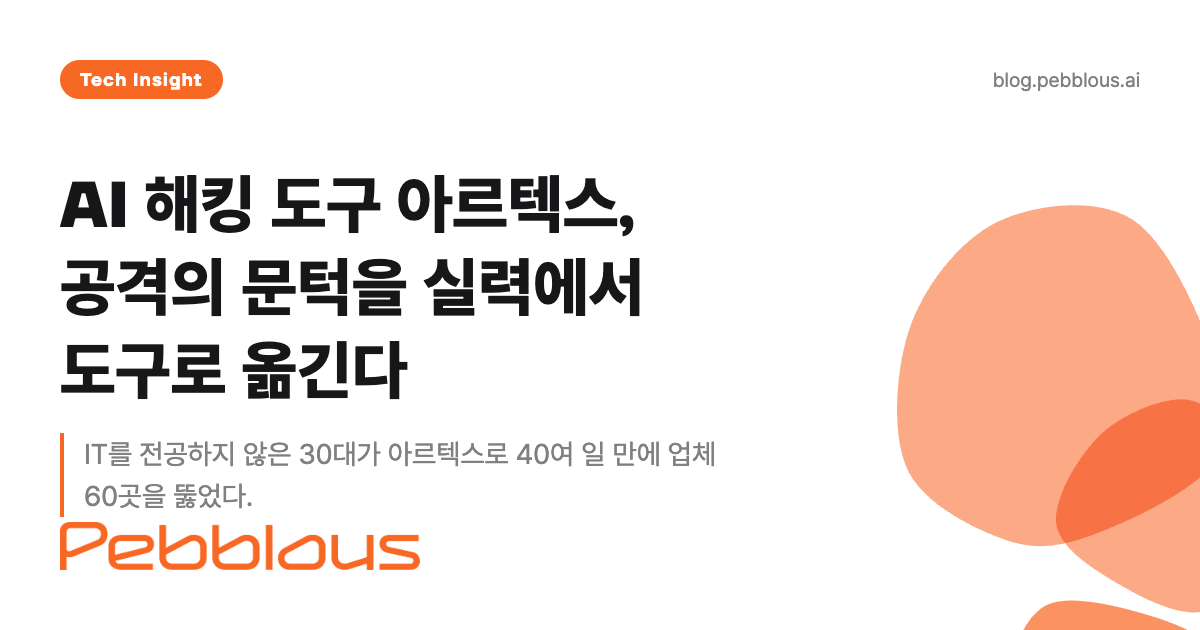
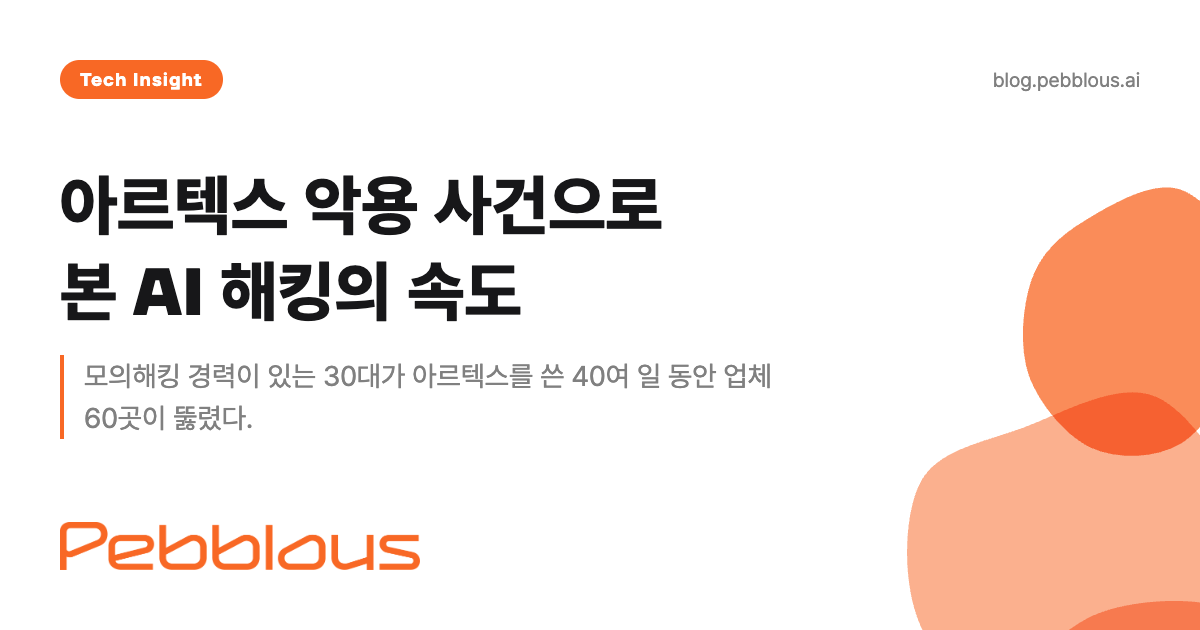
revise(blog): blog/artex-agentic-pentest-access-threshold 수정 — 1. 한국어판만 윤문합니다. 영문판, 기존 URL, 출처와 인용은 유지합니다. 사실 확인이 안 된 내

Changed region(s): [[0.74, 0.3016, 1.0, 1.0], [0.0308, 0.2714, 0.555, 0.5127], [0.0308, 0.5429, 0.6475, 0.8143]]

diff --git a/blog/artex-agentic-pentest-access-threshold/ko/index.html b/blog/artex-agentic-pentest-access-threshold/ko/index.html
@@ -4,14 +4,14 @@
 <head>
     <meta charset="UTF-8">
     <meta name="viewport" content="width=device-width, initial-scale=1.0">
-    <title>아르텍스(ARTEX)란? — AI 해킹 도구 구조와 국내 90곳 침해 사건 정리 | 페블러스</title>
+    <title>아르텍스(ARTEX)란? AI 해킹 도구와 국내 90여 곳 피해 사건 | 페블러스</title>
     <meta name="author" content="(주)페블러스 데이터 커뮤니케이션팀">
     <meta name="language" content="Korean">
     <meta http-equiv="content-language" content="ko">
     <meta name="copyright" content="© 2026 Pebblous. All rights reserved.">
     <meta name="robots" content="index, follow">
 
-    <meta name="description" content="서울경찰청이 생성형 AI 침투 도구 아르텍스를 쓴 해킹 일당 7명을 검거했다. IT를 전공하지 않은 총책이 이 도구로 40여 일 만에 업체 60곳을 뚫었고, 같은 도구가 중국 국가 연계 조직의 공격에서도 발견됐다. 피해 90여 곳 가운데 신고한 곳은 15곳이다.">
+    <meta name="description" content="서울경찰청이 생성형 AI 침투 도구 아르텍스를 쓴 해킹 일당 7명을 검거했다. 모의해킹 경력이 있는 총책이 이 도구를 쓴 40여 일 동안 업체 60곳이 뚫렸고, 그 앞 약 1년 동안 뚫린 곳은 30여 곳이다. 피해 90여 곳 가운데 신고한 곳은 15곳이다.">
     <meta name="keywords" content="아르텍스, ARTEX, AI 해킹, 자율 침투 테스트, 에이전틱 AI, 오픈소스 해킹 도구, 사이버보안, 데이터 유출, 침해사고 신고, AI-Ready Data">
 
     <!-- 핵심 검색어 -->
@@ -25,8 +25,8 @@
 
     <!-- Open Graph -->
     <meta property="og:type" content="article">
-    <meta property="og:title" content="AI 해킹 도구 아르텍스, 공격의 문턱을 실력에서 도구로 옮긴다">
-    <meta property="og:description" content="IT를 전공하지 않은 30대가 아르텍스로 40여 일 만에 업체 60곳을 뚫었다. 같은 도구가 중국 국가 연계 조직의 공격에서도 나왔고, 피해 90여 곳 가운데 신고는 15곳뿐이다.">
+    <meta property="og:title" content="아르텍스 악용 사건으로 본 AI 해킹의 속도">
+    <meta property="og:description" content="모의해킹 경력이 있는 30대가 아르텍스를 쓴 40여 일 동안 업체 60곳이 뚫렸다. 그 앞 약 1년 동안 뚫린 곳은 30여 곳이다. 같은 도구가 중국 국가 연계 조직의 공격에서도 나왔고, 피해 90여 곳 가운데 신고는 15곳이다.">
     <meta property="og:url" content="https://blog.pebblous.ai/blog/artex-agentic-pentest-access-threshold/ko/">
     <meta property="og:image" content="https://blog.pebblous.ai/blog/artex-agentic-pentest-access-threshold/ko/image/index.png">
     <meta property="og:image:width" content="1200">
@@ -38,7 +38,7 @@
 
     <!-- Twitter Card -->
     <meta name="twitter:card" content="summary_large_image">
-    <meta name="twitter:title" content="AI 해킹 도구 아르텍스, 공격의 문턱을 실력에서 도구로 옮긴다">
+    <meta name="twitter:title" content="아르텍스 악용 사건으로 본 AI 해킹의 속도">
     <meta name="twitter:description" content="숭실대 재현 실험에서 아르텍스는 목표 한 줄만 받고 6분 만에 취약점을 찾아 가상 고객 기록 100건을 열었다. 쓰인 모델은 개인 워크스테이션에서 돌아가는 공개 모델이었다.">
     <meta name="twitter:image" content="https://blog.pebblous.ai/blog/artex-agentic-pentest-access-threshold/ko/image/index.png">
     <meta name="twitter:image:alt" content="같은 오픈소스 도구 아르텍스가 국가 연계 조직·금전 목적 소규모 팀·독학한 개인 세 갈래의 공격에 함께 쓰인 구도를 그린 도식">
@@ -67,7 +67,7 @@
     <link rel="stylesheet" href="https://cdn.jsdelivr.net/gh/orioncactus/pretendard@v1.3.9/dist/web/variable/pretendardvariable.min.css">
 
     <!-- Google Scholar -->
-    <meta name="citation_title" content="AI 해킹 도구 아르텍스, 공격의 문턱을 실력에서 도구로 옮긴다">
+    <meta name="citation_title" content="아르텍스 악용 사건으로 본 AI 해킹의 속도">
     <meta name="citation_author" content="Pebblous Data Communication Team">
     <meta name="citation_publication_date" content="2026/10/28">
     <meta name="citation_online_date" content="2026/10/28">
@@ -88,9 +88,9 @@
             <nav class="hidden lg:block lg:w-[240px] lg:shrink-0 sticky top-20 self-start">
                 <h3 class="font-bold themeable-heading mb-4 text-lg">목차</h3>
                 <ul id="toc-links" class="space-y-3 text-sm border-l-2 themeable-toc-border">
-                    <li><a href="#executive-summary" class="block pl-4 themeable-toc-link transition-colors duration-200">Executive Summary</a></li>
+                    <li><a href="#executive-summary" class="block pl-4 themeable-toc-link transition-colors duration-200">핵심 요약</a></li>
                     <li><a href="#the-case" class="block pl-4 themeable-toc-link transition-colors duration-200">1. 820만 건을 털고 받아 낸 돈은 30만원이다</a></li>
-                    <li><a href="#what-changed" class="block pl-4 themeable-toc-link transition-colors duration-200">2. 달라진 것은 도구뿐이다</a></li>
+                    <li><a href="#what-changed" class="block pl-4 themeable-toc-link transition-colors duration-200">2. 아르텍스 도입 전후로 피해 발생 속도가 달라졌다</a></li>
                     <li><a href="#same-tool" class="block pl-4 themeable-toc-link transition-colors duration-200">3. 같은 도구가 국가 연계 조직의 손에도 있다</a></li>
                     <li><a href="#after-closure" class="block pl-4 themeable-toc-link transition-colors duration-200">4. 저자가 손을 떼도 도구는 남는다</a></li>
                     <li><a href="#unreported" class="block pl-4 themeable-toc-link transition-colors duration-200">5. 90여 곳 가운데 15곳만 신고했다</a></li>
@@ -110,13 +110,13 @@
 
                 <!-- Executive Summary -->
                 <section id="executive-summary" class="mb-16 fade-in-card">
-                    <h2 class="text-3xl font-bold themeable-heading mb-8">Executive Summary</h2>
+                    <h2 class="text-3xl font-bold themeable-heading mb-8">핵심 요약</h2>
                     <div class="key-insight">
                         <p class="themeable-text leading-relaxed">
-                            서울경찰청이 생성형 AI 침투 도구를 쓴 해킹·공갈 일당 일곱 명을 검거했다는 소식이다. 이들이 쓴 도구는 아르텍스(ARTEX)로, 목표 주소와 목적만 알려 주면 정찰부터 취약점 확인과 자료 유출까지 사람이 거의 손대지 않고 스스로 해내도록 만들어진 공개 프로그램이다. 경찰은 생성형 AI를 악용한 대규모 해킹으로 국내에서 피의자를 검거한 첫 사례라고 밝혔다. 이 글은 그 도구가 무엇이고, 같은 도구가 어떤 사람들의 손에 함께 들려 있는지를 본다.
+                            서울경찰청 발표에 따르면 2025년 9월부터 올해 10월 초까지 국내 업체 90여 곳에서 개인정보와 내부 자료 약 820만 건이 빠져나갔다. 같은 발표에서 시기는 둘로 갈린다. 앞선 약 1년 동안 뚫린 곳이 30여 곳이고, 총책이 생성형 AI 침투 도구 아르텍스(ARTEX)를 본격적으로 쓰기 시작한 8월 말 이후 40여 일 동안 뚫린 곳이 60곳이다. 이 도구가 쓰인 것으로 전해진 구간은 뒤쪽이다. 90여 곳 전부가 이 도구로 공격받았다는 뜻은 아니다. 경찰은 10월 26일 일당 일곱 명을 검거했고, 생성형 AI를 악용한 대규모 해킹으로 국내에서 피의자를 검거한 첫 사례라고 밝혔다.
                         </p>
                         <p class="themeable-text leading-relaxed mt-4">
-                            눈에 띄는 것은 총책의 이력이다. IT를 전공하지 않았고 블로그와 영상으로 해킹을 독학했다. 그런데도 8월 말에 아르텍스를 손에 쥔 뒤로는 40여 일 만에 업체 60곳이 더 뚫렸다. 그 앞 열두 달 동안 뚫은 곳은 30여 곳이다. 같은 사람, 같은 목적, 표적을 고르는 방식도 같은데 속도만 열 배 넘게 뛰었다. 그리고 바로 그 도구가 중국 국가 연계 조직의 공격에서도, 국내 금융사 일곱 곳을 노린 공격 서버에서도 함께 발견됐다.
+                            아르텍스는 목표 주소와 목적만 알려 주면 정찰부터 취약점 확인과 자료 유출까지 사람이 거의 손대지 않고 스스로 해내도록 만들어진 공개 프로그램이다. 총책인 32세 남성은 IT를 전공하지 않았고 블로그와 영상으로 해킹을 독학했지만, 2019년부터 2022년까지 보안업체에서 모의해킹 업무를 맡은 경력이 있다. 침투 테스트를 실무로 겪어 본 사람이었다는 뜻이다. 그리고 같은 도구가 중국 국가 연계 조직의 공격에서도, 국내 금융사 일곱 곳을 노린 공격 서버에서도 함께 발견됐다. 이 글은 그 도구가 무엇이고, 같은 도구가 어떤 사람들의 손에 함께 들려 있는지를 본다.
                         </p>
                         <p class="themeable-text leading-relaxed mt-4">
                             5절까지는 경찰 발표와 보안업체 분석, 그리고 공개된 수치에서 바로 계산되는 값을 따라간다. 이 사건을 데이터를 다루는 쪽의 질문으로 옮긴 6절은 이 글의 해석이다.
@@ -124,7 +124,7 @@
                     </div>
 
                     <h3 class="text-xl font-semibold themeable-heading mt-8 mb-3">주요 수치</h3>
-                    <p class="themeable-text-secondary text-sm mb-3">출처: <a href="https://zdnet.co.kr/view/?no=20261027074733" target="_blank" rel="noopener" class="text-orange-500 hover:text-orange-400 underline">ZDNet 코리아</a>·<a href="https://www.etnews.com/20261026000369" target="_blank" rel="noopener" class="text-orange-500 hover:text-orange-400 underline">전자신문</a>(서울경찰청 발표), <a href="https://zdnet.co.kr/view/?no=20261006095704" target="_blank" rel="noopener" class="text-orange-500 hover:text-orange-400 underline">숭실대 AI안전성연구센터 재현 실험</a>, <a href="https://www.csoonline.com/article/4239028/china-linked-hackers-used-agentic-ai-in-attack-on-2250-microsoft-365-tenants.html" target="_blank" rel="noopener" class="text-orange-500 hover:text-orange-400 underline">CSOonline</a>(마이크로소프트 위협 인텔리전스 분석). 기간당 속도 환산은 공개된 수치에서 페블러스가 계산했다.</p>
+                    <p class="themeable-text-secondary text-sm mb-3">출처: <a href="https://zdnet.co.kr/view/?no=20261027074733" target="_blank" rel="noopener" class="text-orange-500 hover:text-orange-400 underline">ZDNet 코리아</a>·<a href="https://www.etnews.com/20261026000369" target="_blank" rel="noopener" class="text-orange-500 hover:text-orange-400 underline">전자신문</a>(서울경찰청 발표), <a href="https://zdnet.co.kr/view/?no=20261006095704" target="_blank" rel="noopener" class="text-orange-500 hover:text-orange-400 underline">숭실대 AI안전성연구센터 재현 실험</a>, <a href="https://www.csoonline.com/article/4239028/china-linked-hackers-used-agentic-ai-in-attack-on-2250-microsoft-365-tenants.html" target="_blank" rel="noopener" class="text-orange-500 hover:text-orange-400 underline">CSOonline</a>(마이크로소프트 위협 인텔리전스 분석). 기간당 속도 환산은 공개된 수치에서 페블러스가 계산했다. 발표 수치가 어림수여서 환산값도 대략치다.</p>
                     <div class="grid grid-cols-2 sm:grid-cols-2 lg:grid-cols-4 gap-4">
                         <div class="themeable-card rounded-xl p-4 text-center">
                             <p class="text-2xl font-bold" style="color: #F86825;">6분</p>
@@ -134,7 +134,7 @@
                         <div class="themeable-card rounded-xl p-4 text-center">
                             <p class="text-2xl font-bold" style="color: #F86825;">60곳</p>
                             <p class="text-sm themeable-text-secondary mt-1">아르텍스를 쓴 40여 일 동안 뚫린 업체</p>
-                            <p class="text-xs themeable-muted mt-1">그 앞 열두 달 동안 뚫린 곳은 30여 곳이다. 피해 업체의 3분의 2가 전체 기간의 10분의 1에 몰렸다</p>
+                            <p class="text-xs themeable-muted mt-1">앞선 약 1년 동안 뚫린 곳은 30여 곳이다. 피해 업체의 3분의 2가 전체 기간의 10분의 1에 몰린 셈이다</p>
                         </div>
                         <div class="themeable-card rounded-xl p-4 text-center">
                             <p class="text-2xl font-bold" style="color: #F86825;">15곳</p>
@@ -240,7 +240,7 @@
                     </p>
 
                     <p class="themeable-text leading-relaxed mb-6">
-                        총책의 이력이 이 사건을 보통의 해킹 사건과 가른다. IT를 전공하지 않았고 블로그와 영상을 보며 해킹을 익혔다. 2019년부터 2022년까지 보안업체에서 모의해킹 업무를 맡은 적은 있지만, 혼자서 전국 90여 곳의 전산망을 여는 수준의 숙련자는 아니었다. 경찰이 발표에서 짚은 문장이 그 지점이다. 전문 해커 조직이 아니어도 AI의 도움을 받으면 대규모 해킹이 가능해졌다는 것이다.
+                        총책의 이력은 두 갈래로 적혀 있다. IT를 전공하지 않았고 블로그와 영상을 보며 해킹을 익혔다는 쪽이 한 갈래다. 다른 한 갈래는 2019년부터 2022년까지 보안업체에서 모의해킹 업무를 맡았다는 경력이다. 침투 테스트를 실무로 다뤄 본 사람이 공개된 자동화 도구를 손에 쥔 경우에 가깝다. 경찰이 발표에서 짚은 문장은 그 옆자리에 있다. 전문 해커 조직이 아니어도 AI의 도움을 받으면 대규모 해킹이 가능해졌다는 것이다.
                     </p>
                 </section>
 
@@ -248,20 +248,24 @@
                 <section id="what-changed" class="mb-16 fade-in-card">
                     <div class="flex items-center gap-4 mb-8">
                         <span class="number-badge">2</span>
-                        <h2 class="text-3xl font-bold themeable-heading">달라진 것은 도구뿐이다</h2>
+                        <h2 class="text-3xl font-bold themeable-heading">아르텍스 도입 전후로 피해 발생 속도가 달라졌다</h2>
                     </div>
 
                     <p class="themeable-text leading-relaxed mb-6">
-                        총책은 처음부터 AI를 쓴 것이 아니다. 열세 달 가운데 앞쪽 열두 달은 기존의 취약점 탐지 도구로 한 곳씩 공략했다. 8월 말에 아르텍스와 코딩 도구를 본격적으로 붙이면서 방식이 바뀌었다.
+                        총책은 처음부터 AI를 쓴 것이 아니다. 열세 달 가운데 앞쪽 약 1년은 기존의 취약점 탐지 도구로 한 곳씩 공략했다. 8월 말에 아르텍스와 코딩 도구를 본격적으로 붙이면서 방식이 바뀌었다.
                     </p>
 
                     <p class="themeable-text leading-relaxed mb-6">
-                        두 구간을 같은 잣대로 재 보면 차이가 선명하다. 앞 구간은 350일 남짓 동안 30여 곳이니 한 곳에 평균 열이틀쯤 걸린 셈이다. 뒤 구간은 40여 일에 60곳이니 하루에 한 곳이 넘는다. 열 배가 넘게 빨라졌다. 다만 경찰 발표의 90여 곳·60여 곳·열세 달이 모두 어림수라서, 이 배수는 정확한 통계가 아니라 방향을 보여 주는 환산으로 읽어야 한다. 어느 쪽 어림을 넣어도 한 자릿수로는 내려가지 않는다는 것이 이 계산에서 확실한 부분이다.
+                        두 구간을 같은 잣대로 재 보면 피해가 쌓인 간격이 다르다. 앞 구간은 350일 남짓 동안 30여 곳이니 한 곳에 평균 열이틀쯤 걸린 셈이다. 뒤 구간은 40여 일에 60곳이니 하루에 한 곳이 넘는 간격이다. 다만 이 비교는 경찰 발표의 90여 곳·60여 곳·열세 달이라는 어림수를 그대로 나눈 대략치다. 정확한 통계가 아니라 두 구간의 결이 다르다는 정도를 보여 주는 값으로 읽는 편이 맞다.
+                    </p>
+
+                    <p class="themeable-text leading-relaxed mb-6">
+                        차이의 원인을 도구 하나로 돌릴 근거도 공개된 자료에는 없다. 두 구간 사이에 달라진 것이 아르텍스뿐이라고 확인된 바가 없기 때문이다. 표적으로 고른 업체의 종류, 같은 수법이 통하는 곳을 찾는 요령이 쌓인 정도, 범행에 붙은 사람의 수 같은 조건은 경찰 발표에서 구간별로 나뉘어 있지 않다. 아래 도식도 두 구간의 간격을 나란히 놓은 것이지 인과를 보인 것은 아니다.
                     </p>
 
                     <figure class="my-8">
                         <svg viewBox="0 0 680 240" class="w-full max-w-[640px] h-auto mx-auto rounded-xl border themeable-border" style="background:var(--card-bg,#ffffff); font-family: Pretendard, sans-serif;" role="img" aria-label="아르텍스 도입 전후 공격 속도를 비교한 도식. 왼쪽은 도입 전으로 350일 남짓 동안 30여 곳을 공략해 한 곳에 평균 열이틀이 걸렸다. 오른쪽은 도입 후로 40여 일 동안 60여 곳을 공략해 하루에 한 곳이 넘는다. 아래에는 전체 기간의 10분의 1에 피해의 3분의 2가 몰렸다는 설명이 있다.">
-                            <text x="340" y="28" text-anchor="middle" font-size="13" font-weight="600" fill="var(--text-primary,#111827)">같은 사람, 같은 수법, 다른 도구</text>
+                            <text x="340" y="28" text-anchor="middle" font-size="13" font-weight="600" fill="var(--text-primary,#111827)">같은 사건의 두 구간</text>
 
                             <rect x="40" y="52" width="280" height="124" rx="8" fill="none" stroke="var(--text-muted,#9CA3AF)" stroke-width="1.5"/>
                             <text x="180" y="76" text-anchor="middle" font-size="11" font-weight="700" fill="var(--text-primary,#111827)">아르텍스 도입 전</text>
@@ -279,7 +283,7 @@
                             <text x="340" y="220" text-anchor="middle" font-size="9.5" fill="var(--text-muted,#6B7280)">전체 기간의 10분의 1에 피해 업체의 3분의 2가 몰렸다</text>
                         </svg>
                         <figcaption class="text-xs themeable-muted text-center mt-2">
-                            ▲ 페블러스 원본 도식 | 출처: <a href="https://zdnet.co.kr/view/?no=20261027074733" target="_blank" rel="noopener" class="underline">ZDNet 코리아</a>·<a href="https://www.etnews.com/20261026000369" target="_blank" rel="noopener" class="underline">전자신문</a>이 전한 서울경찰청 발표 수치에서 페블러스가 환산
+                            ▲ 페블러스 원본 도식 | 출처: <a href="https://zdnet.co.kr/view/?no=20261027074733" target="_blank" rel="noopener" class="underline">ZDNet 코리아</a>·<a href="https://www.etnews.com/20261026000369" target="_blank" rel="noopener" class="underline">전자신문</a>이 전한 서울경찰청 발표 수치에서 페블러스가 환산. 발표 수치가 어림수라 두 구간의 대략적인 비교다
                         </figcaption>
                     </figure>
 
@@ -304,7 +308,7 @@
 
                     <div class="key-insight">
                         <p class="themeable-text leading-relaxed">
-                            최대선 센터장이 짚은 조건이 이 실험의 핵심이다. 전문 해커의 기술도, 대규모 연산 설비도, 특정 국가의 최신 모델도 전제가 아니었다. 비전문가 수준의 지시와 개인 워크스테이션급 장비에서 돌아가는 공개 모델(Qwen 27B)이면 충분했다는 것이다. 공격 능력을 가르던 문턱이 기술력에서 도구를 구할 수 있느냐로 옮겨 갔다는 말은, 이 실험에서는 비유가 아니라 측정된 사실이다.
+                            최대선 센터장이 짚은 것은 이 실험이 어떤 조건에서 돌아갔는가다. 전문 해커의 기술도, 대규모 연산 설비도, 특정 국가의 최신 모델도 전제가 아니었다. 비전문가 수준의 지시와 개인 워크스테이션급 장비에서 돌아가는 공개 모델(Qwen 27B)로 실험이 이뤄졌다는 것이다. 격리된 모의 환경에서 나온 결과라 실제 공격의 성패를 그대로 말해 주지는 않는다. 다만 이런 도구를 한 번 돌려 보는 데 드는 준비가 어느 정도인지는 이 기록이 보여 준다.
                         </p>
                     </div>
                 </section>
@@ -333,7 +337,7 @@
                     </p>
 
                     <figure class="my-8">
-                        <svg viewBox="0 0 680 300" class="w-full max-w-[660px] h-auto mx-auto rounded-xl border themeable-border" style="background:var(--card-bg,#ffffff); font-family: Pretendard, sans-serif;" role="img" aria-label="하나의 오픈소스 도구 아르텍스가 세 갈래 공격자에게 함께 쓰인 구도를 그린 도식. 가운데에 아르텍스가 있고 아래로 세 갈래가 뻗는다. 첫째는 중국 국가 연계 조직 스톰-0940으로 마이크로소프트 365 조직 2,250여 곳을 공격했다. 둘째는 금전 목적 소규모 팀으로 국내 금융사 일곱 곳을 공격했다. 셋째는 독학한 개인으로 국내 업체 90여 곳을 공격했다. 아래에는 자원과 숙련도는 셋이 다르지만 도구 칸에는 같은 이름이 적힌다는 설명이 있다.">
+                        <svg viewBox="0 0 680 300" class="w-full max-w-[660px] h-auto mx-auto rounded-xl border themeable-border" style="background:var(--card-bg,#ffffff); font-family: Pretendard, sans-serif;" role="img" aria-label="하나의 오픈소스 도구 아르텍스가 세 갈래 공격자에게 함께 쓰인 구도를 그린 도식. 가운데에 아르텍스가 있고 아래로 세 갈래가 뻗는다. 첫째는 중국 국가 연계 조직 스톰-0940으로 마이크로소프트 365 조직 2,250여 곳을 공격했다. 둘째는 금전 목적 소규모 팀으로 국내 금융사 일곱 곳을 공격했다. 셋째는 독학한 개인으로 이 도구를 쓴 40여 일 동안 국내 업체 60곳을 공격했다. 아래에는 자원과 숙련도는 셋이 다르지만 도구 칸에는 같은 이름이 적힌다는 설명이 있다.">
                             <text x="340" y="28" text-anchor="middle" font-size="13" font-weight="600" fill="var(--text-primary,#111827)">하나의 공개 도구, 세 갈래의 손</text>
 
                             <rect x="240" y="48" width="200" height="50" rx="8" fill="#F86825" fill-opacity="0.1" stroke="#F86825" stroke-width="1.5"/>
@@ -360,9 +364,9 @@
 
                             <rect x="464" y="136" width="192" height="108" rx="8" fill="#F86825" fill-opacity="0.1" stroke="#F86825" stroke-width="1.5"/>
                             <text x="560" y="160" text-anchor="middle" font-size="11" font-weight="700" fill="#F86825">독학한 개인</text>
-                            <text x="560" y="180" text-anchor="middle" font-size="9.5" fill="var(--text-secondary,#4B5563)">IT 비전공, 32세</text>
-                            <text x="560" y="206" text-anchor="middle" font-size="15" font-weight="700" fill="#F86825">90여 곳</text>
-                            <text x="560" y="228" text-anchor="middle" font-size="9.5" fill="var(--text-secondary,#4B5563)">국내 학원·병원·골프장·대학</text>
+                            <text x="560" y="180" text-anchor="middle" font-size="9.5" fill="var(--text-secondary,#4B5563)">모의해킹 경력, 32세</text>
+                            <text x="560" y="206" text-anchor="middle" font-size="15" font-weight="700" fill="#F86825">60곳</text>
+                            <text x="560" y="228" text-anchor="middle" font-size="9.5" fill="var(--text-secondary,#4B5563)">도구를 쓴 40여 일 동안</text>
 
                             <line x1="24" y1="264" x2="656" y2="264" stroke="var(--border-color,#E5E7EB)" stroke-width="1"/>
                             <text x="340" y="286" text-anchor="middle" font-size="9.5" fill="var(--text-muted,#6B7280)">자원도 조직도 숙련도도 다르지만 도구 칸에는 같은 이름이 적힌다</text>
@@ -397,7 +401,7 @@
                     </p>
 
                     <p class="themeable-text leading-relaxed mb-6">
-                        방어 쪽 계획을 세울 때 여기서 나오는 결론은 단순하다. 특정 도구의 유통을 막는 것은 대책이 되지 못한다. 이름이 바뀐 포크가 계속 나올 것이고, 막더라도 비슷한 구조의 다른 도구가 자리를 메운다. 기준으로 삼을 것은 그 도구가 끌어올린 속도다. 하루에 한 곳 넘게 뚫리는 속도, 세 시간 안에 관리자 권한이 넘어가는 속도를 전제로 탐지와 대응의 간격을 다시 재야 한다.
+                        방어 쪽 계획을 세울 때 여기서 나오는 결론은 단순하다. 특정 도구의 유통을 막는 것은 대책이 되지 못한다. 이름이 바뀐 포크가 계속 나올 것이고, 막더라도 비슷한 구조의 다른 도구가 자리를 메운다. 기준으로 삼을 것은 이미 확인된 사례들의 속도다. 하루에 한 곳이 넘는 간격으로 피해가 쌓인 구간이 있었고, 표적을 정한 지 세 시간이 안 돼 관리자급 권한이 넘어간 사례가 있었다. 탐지와 대응의 간격은 그 시간표를 기준으로 다시 재야 한다.
                     </p>
                 </section>
 
@@ -409,19 +413,15 @@
                     </div>
 
                     <p class="themeable-text leading-relaxed mb-6">
-                        이 사건에서 가장 조용한 수치가 신고 건수다. 피해 업체 90여 곳 가운데 경찰에 신고한 곳은 15곳이다. 나머지 75곳은 자기 데이터가 빠져나간 사실을 알고도, 또는 끝내 모른 채로 신고하지 않았다. 신고하지 않은 쪽이 다섯 배다.
+                        이 사건에서 가장 조용한 수치가 신고 건수다. 피해 업체 90여 곳 가운데 경찰에 신고한 곳은 15곳이다. 나머지 75곳의 유출은 경찰이 수사에 들어간 뒤에 드러났다. 여기까지가 이번 발표로 확인된 내용이다. 신고하지 않은 업체들이 피해를 알고 있었는지, 알고도 신고하지 않았다면 어떤 사정이었는지는 발표에 나와 있지 않다.
                     </p>
 
                     <p class="themeable-text leading-relaxed mb-6">
-                        신고하지 않는 선택에는 나름의 계산이 있다. 신고하면 조사를 받아야 하고, 과징금과 소송과 평판 손실이 따라온다. 반면 조용히 넘기면 아무 일도 일어나지 않은 것처럼 보인다. 이번 사건에서는 실제로 그렇게 보였을 것이다. 돈을 보낸 곳이 한 곳뿐이었으니, 협박을 받고도 버틴 업체 입장에서는 손해 없이 끝난 일로 정리됐을 수 있다.
+                        분명한 것은 돈이 오가지 않았다고 해서 자료가 돌아온 것은 아니라는 점이다. 주민등록번호와 진료 내역과 미성년자 정보는 이미 공격자의 손에 넘어갔고, 그 사본이 몇 개인지, 어디로 갔는지는 확인된 바가 없다. 신고가 없었다면 그 유출은 어느 기록에도 남지 않았을 것이고, 당사자인 정보 주체도 자기 정보가 나갔다는 사실을 통지받을 길이 없었을 것이다.
                     </p>
 
                     <p class="themeable-text leading-relaxed mb-6">
-                        문제는 데이터 쪽 계산이 그렇게 끝나지 않는다는 데 있다. 돈이 오가지 않았다고 해서 자료가 돌아온 것은 아니다. 주민등록번호와 진료 내역과 미성년자 정보는 이미 공격자의 손에 있고, 그 사본이 몇 개인지, 어디로 갔는지는 아무도 모른다. 신고가 없으면 그 유출은 어느 장부에도 기록되지 않는다. 당사자인 정보 주체는 자기 정보가 나갔다는 사실 자체를 통지받지 못한다.
-                    </p>
-
-                    <p class="themeable-text leading-relaxed mb-6">
-                        이번에는 경찰이 수사에 들어간 덕분에 75곳의 피해가 뒤늦게 드러났고 탈취된 개인정보도 회수됐다. 하지만 그것은 6월에 접수된 진정서 한 장에서 시작된 수사가 넉 달 동안 이어진 결과다. 수사가 없었다면 820만 건 가운데 15곳분만 기록에 남고 나머지는 통계에도, 어느 침해 현황에도 잡히지 않았을 것이다. 우리가 보고 있는 침해 통계가 실제의 얼마만큼인지를, 이 사건의 15와 90이라는 두 숫자가 보여 준다.
+                        이번에는 경찰이 수사에 들어간 덕분에 75곳의 피해가 뒤늦게 드러났고 탈취된 개인정보도 회수됐다. 하지만 그것은 6월에 접수된 진정서 한 장에서 시작된 수사가 넉 달 동안 이어진 결과다. 수사가 없었다면 820만 건 가운데 15곳분만 기록에 남았을 것이다. 15와 90은 이 사건에서 확인된 두 숫자다. 다른 사건이나 업계 전체의 신고 비율이 이와 같을 것이라고 볼 근거는 없다.
                     </p>
 
                     <p class="themeable-text leading-relaxed mb-6">
@@ -465,7 +465,7 @@
                         </li>
                         <li class="flex items-start gap-3">
                             <span class="text-orange-500 mt-1">•</span>
-                            <span class="themeable-text leading-relaxed"><strong>데이터가 나갔을 때 그 사실이 기록으로 남는가</strong>. 어느 테이블의 어느 범위가 언제 어디로 조회됐는지가 남아 있지 않으면, 유출 여부를 묻는 질문에 모른다고 답할 수밖에 없다. 75곳이 신고하지 않은 데에는 신고할 내용을 구성하지 못한 경우도 섞여 있다</span>
+                            <span class="themeable-text leading-relaxed"><strong>데이터가 나갔을 때 그 사실이 기록으로 남는가</strong>. 어느 테이블의 어느 범위가 언제 어디로 조회됐는지가 남아 있지 않으면, 유출 여부를 묻는 질문에 모른다고 답할 수밖에 없다. 신고를 하려 해도 적어 낼 내용이 없다</span>
                         </li>
                         <li class="flex items-start gap-3">
                             <span class="text-orange-500 mt-1">•</span>
@@ -474,14 +474,14 @@
                     </ul>
 
                     <p class="themeable-text leading-relaxed mb-6">
-                        AI-Ready Data를 말할 때 우리가 대개 떠올리는 것은 모델이 쓸 데이터다. 그런데 이번 사건은 같은 데이터가 공격하는 에이전트에게도 똑같이 준비돼 있을 수 있다는 점을 보여 준다. 데이터를 AI가 쓸 수 있는 상태로 만드는 일과 누가 그 AI인지를 가리는 일은 한 묶음이어야 한다. 그 둘이 갈라져 있는 조직에서 정비가 빨라지면, 빨라진 만큼 열리는 쪽도 넓어진다.
+                        AI-Ready Data를 말할 때 우리가 대개 떠올리는 것은 모델이 쓸 데이터다. 그런데 이번 사건은 같은 데이터가 공격하는 에이전트에게도 똑같이 준비돼 있을 수 있다는 점을 보여 준다. 그래서 데이터 정비 계획에는 세 가지가 함께 들어가야 한다. 첫째, AI 에이전트가 어느 시스템의 어느 데이터까지 닿을 수 있는지 그 범위를 미리 정한다. 둘째, 그 범위 안에서도 맡은 작업에 필요한 권한만 준다. 읽기면 되는 일에 쓰기 권한을, 한 테이블이면 되는 일에 전체 조회 권한을 주지 않는다. 셋째, 누가 어느 데이터를 언제 읽고 어디로 내보냈는지를 기록으로 남기고, 그 기록을 정해진 주기로 들여다본다. 세 가지 모두 데이터를 정리하는 일과 같은 계획서 안에 있어야 한다.
                     </p>
 
                     <!-- Editor's Note -->
                     <div class="themeable-card rounded-xl p-6 mt-8 border-l-4" style="border-color: #F86825;">
-                        <p class="text-sm font-semibold themeable-heading mb-2">Editor's Note</p>
+                        <p class="text-sm font-semibold themeable-heading mb-2">편집자 주</p>
                         <p class="themeable-text leading-relaxed text-sm">
-                            이 사건에서 가장 오래 남을 숫자는 820만도 90도 아니라 15일 것 같다. 공격 쪽의 속도가 열 배 뛴 사실은 대응 기술로 따라붙을 여지가 있다. 반면 피해 90여 곳 가운데 15곳만 신고했다는 사실은 기술의 문제가 아니라 신고가 손해로 돌아오는 구조의 문제다. 침해 통계가 실제의 6분의 1만 보고 있다면 그 통계 위에 세운 위험 평가와 예산 배분도 같은 비율로 틀어져 있다. 저자가 손을 떼겠다고 밝히기 하루 전에 현지화 포크가 올라오는 속도와, 피해 사실이 장부에 오르기까지 넉 달짜리 수사가 필요한 속도. 이 둘의 간격이 지금 가장 넓은 자리다.
+                            이 사건에서 가장 오래 남을 숫자는 820만도 90도 아니라 15일 것 같다. 피해가 쌓이는 간격은 탐지와 대응 쪽에서 따라붙을 여지가 있다. 반면 15라는 숫자는 수사가 들어가기 전까지 나머지 75곳의 유출이 어디에도 올라와 있지 않았다는 뜻이다. 왜 신고하지 않았는지, 다른 사건에서도 비슷한지는 이번 발표로 알 수 없다. 알 수 있는 것은 기록되는 속도 쪽이다. 저자가 손을 떼겠다고 밝히기 하루 전에 현지화 포크가 올라왔고, 피해 사실이 장부에 오르기까지는 넉 달짜리 수사가 필요했다. 이 둘의 간격이 지금 가장 넓은 자리다.
                         </p>
                     </div>
                 </section>
@@ -551,9 +551,9 @@
               },
               "recordedAt": "2026-10-27T18:32:06.227Z"
             },
-            mainTitle: "AI 해킹 도구 아르텍스, 공격의 문턱을 실력에서 도구로 옮긴다",
-            subtitle: "서울경찰청 발표 — IT 비전공 30대가 이 도구로 40여 일 만에 업체 60곳을 뚫었고, 중국 국가 연계 조직도 썼다",
-            pageTitle: "아르텍스(ARTEX)란? — AI 해킹 도구 구조와 국내 90곳 침해 사건 정리 | 페블러스",
+            mainTitle: "아르텍스 악용 사건으로 본 AI 해킹의 속도",
+            subtitle: "국내 피해 업체 90여 곳 중 약 60곳에서 아르텍스 도입 뒤 40여 일 사이에 피해가 발생했다",
+            pageTitle: "아르텍스(ARTEX)란? AI 해킹 도구와 국내 90여 곳 피해 사건 | 페블러스",
             category: "tech",
             publishDate: "2026-10-28",
             publisher: "(주)페블러스 데이터 커뮤니케이션팀",
@@ -571,11 +571,11 @@
                 },
                 {
                     question: "총책은 전문 해커였나?",
-                    answer: "아니다. IT를 전공하지 않았고 블로그와 영상을 보며 해킹을 독학했다. 2019년부터 2022년까지 보안업체에서 모의해킹 업무를 맡은 경력은 있다. 경찰은 전문 해커 조직이 아니어도 AI의 도움을 받으면 대규모 해킹이 가능해졌다는 점을 이번 사건의 의미로 짚었다."
+                    answer: "IT를 전공하지 않았고 블로그와 영상을 보며 해킹을 독학했다. 다만 2019년부터 2022년까지 보안업체에서 모의해킹 업무를 맡은 경력이 있어 침투 테스트를 실무로 다뤄 본 사람이었다. 경찰은 전문 해커 조직이 아니어도 AI의 도움을 받으면 대규모 해킹이 가능해졌다는 점을 이번 사건의 의미로 짚었다."
                 },
                 {
                     question: "아르텍스를 쓰기 전과 후에 공격 속도가 얼마나 달라졌나?",
-                    answer: "8월 말에 아르텍스를 본격적으로 쓰기 시작한 뒤 40여 일 동안 60곳이 뚫렸다. 그 앞 350일 남짓 동안 뚫린 곳은 30여 곳이다. 한 곳에 평균 열이틀쯤 걸리던 일이 하루에 한 곳이 넘는 속도가 됐으니 열 배가 넘게 빨라진 셈이다. 다만 발표 수치가 모두 어림수라서 이 배수는 정확한 통계가 아니라 방향을 보여 주는 환산이다."
+                    answer: "8월 말에 아르텍스를 본격적으로 쓰기 시작한 뒤 40여 일 동안 60곳이 뚫렸다. 그 앞 350일 남짓 동안 뚫린 곳은 30여 곳이다. 한 곳에 평균 열이틀쯤 걸리던 간격이 하루에 한 곳이 넘는 간격으로 좁아진 셈이다. 다만 발표 수치가 모두 어림수라서 이 비교는 정확한 통계가 아니라 대략치다. 두 구간 사이에 달라진 것이 도구뿐이라고 확인된 바도 없어서, 속도 차이의 원인을 아르텍스 하나로 돌릴 근거는 공개된 자료에 없다."
                 },
                 {
                     question: "아르텍스로 실제 공격이 얼마나 빨리 가능한지 확인된 기록이 있나?",
@@ -583,7 +583,7 @@
                 },
                 {
                     question: "그 실험에는 어떤 장비와 모델이 필요했나?",
-                    answer: "최대선 센터장이 밝힌 조건은 전문 해커의 기술도, 대규모 연산 설비도, 특정 국가의 최신 모델도 전제가 아니었다는 것이다. 비전문가 수준의 지시와 개인 워크스테이션급 장비에서 돌아가는 공개 모델(Qwen 27B)로 충분했다. 공격 능력을 가르던 문턱이 기술력에서 도구 접근성으로 옮겨 갔다는 말이 이 실험에서는 측정된 사실이다."
+                    answer: "최대선 센터장이 밝힌 조건은 전문 해커의 기술도, 대규모 연산 설비도, 특정 국가의 최신 모델도 전제가 아니었다는 것이다. 비전문가 수준의 지시와 개인 워크스테이션급 장비에서 돌아가는 공개 모델(Qwen 27B)로 실험이 이뤄졌다. 다만 격리된 모의 환경에서 나온 결과라서 실제 공격의 성패를 그대로 말해 주지는 않는다."
                 },
                 {
                     question: "같은 도구가 다른 공격에도 쓰였나?",
